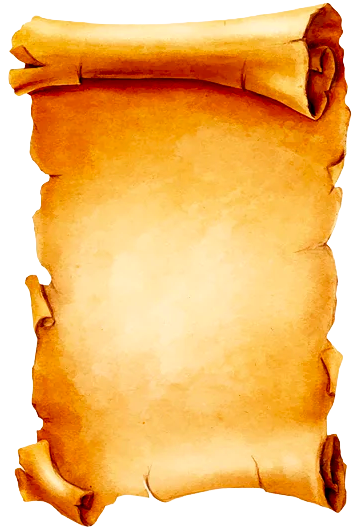
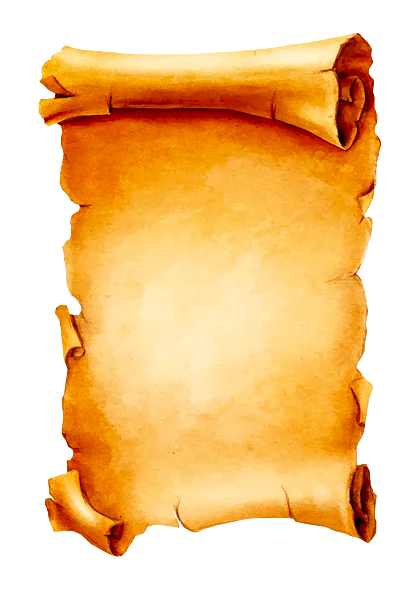
Definitive pergamena fix: original PNG with padding, vh-based sizing, no aspect-ratio

diff --git a/sinonimizzatore.py b/sinonimizzatore.py
@@ -1083,40 +1083,37 @@ HTML_PAGE = r"""<!DOCTYPE html>
     align-items: center;
     gap: 4px;
     min-width: 0;
-    overflow: visible;
   }
 
   .pergamena-frame {
-    position: relative;
     flex: 1;
-    min-height: 0;
     display: flex;
     justify-content: center;
-    align-items: flex-start;
+    align-items: center;
+    min-height: 0;
   }
   .pergamena-inner {
     position: relative;
-    height: 100%;
-    aspect-ratio: 348 / 528;
-    max-width: 100%;
     overflow: hidden;
+    /* Altezza fissa in vh: identica su ogni schermo/viewport */
+    height: calc(100vh - 90px);
   }
   .pergamena-inner img {
-    width: 100%;
     height: 100%;
+    width: auto;
     display: block;
-    filter: drop-shadow(0 8px 24px rgba(0,0,0,0.4));
+    filter: drop-shadow(0 6px 18px rgba(0,0,0,0.5));
   }
   .output-text {
     position: absolute;
-    top: 26%;
-    left: 28%;
-    right: 28%;
+    top: 24%;
+    left: 18%;
+    right: 18%;
     bottom: 20%;
     font-family: 'Cormorant Garamond', serif;
     font-style: italic;
     font-size: 15px;
-    line-height: 1.7;
+    line-height: 1.45;
     color: var(--ink);
     text-align: center;
     overflow-y: auto;
@@ -1178,7 +1175,7 @@ HTML_PAGE = r"""<!DOCTYPE html>
     .col-input { flex: none; width: 100%; }
     .col-output { flex: none; width: 100%; }
     .pergamena-frame { height: auto; }
-    .pergamena-inner { width: 80vw !important; height: auto !important; aspect-ratio: 348 / 528; margin: 0 auto; }
+    .pergamena-inner { height: auto !important; width: 70vw; max-width: 360px; margin: 0 auto; }
     .pergamena-inner img { width: 100% !important; height: auto !important; }
     .input-panel { min-height: 200px; }
     header { flex-wrap: wrap; }
@@ -1230,7 +1227,7 @@ HTML_PAGE = r"""<!DOCTYPE html>
   <div class="col-output">
     <div class="pergamena-frame">
       <div class="pergamena-inner">
-        <img src="/pergamena.png?v=3" alt="">
+        <img src="/pergamena.png?v=5" alt="">
         <div class="output-text" id="outputText"></div>
       </div>
     </div>
